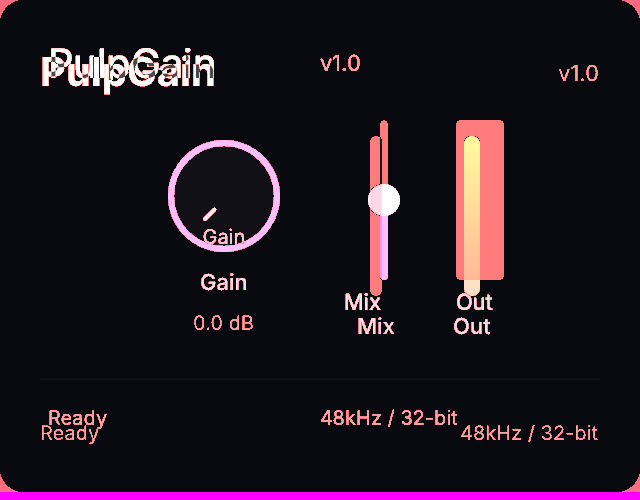
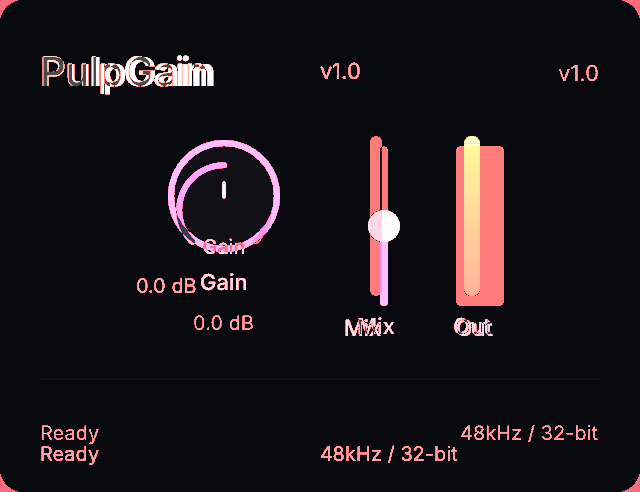
Compute exact layout heights from Pencil data instead of estimating
- Parse top-level Pencil properties (width, height, fill, cornerRadius,
  fontSize, fontWeight, layout, gap, padding, justifyContent, alignItems)
  directly from node JSON — not just from "style" sub-object
- Pencil frames default to horizontal (row) when no layout specified
- Audio widget height computed from actual child shape dimensions +
  label count + gaps — no more kMin* fallback estimates
- Extract widget dimensions from child ellipse/rectangle shapes
- 91→93% similarity against real Pencil export

diff --git a/core/view/src/design_import.cpp b/core/view/src/design_import.cpp
@@ -207,11 +207,124 @@ static IRNode parse_ir_node(const choc::value::ValueView& obj) {
     if (obj.hasObjectMember("default"))
         node.audio_default = get_float(obj, "default", 0.5f);
 
+    // Top-level properties (Pencil/Figma format puts these at node level, not in "style")
+    // Override style values if they weren't set from the "style" sub-object
+    if (!node.style.width && obj.hasObjectMember("width")) {
+        auto w_str = get_string(obj, "width", "");
+        if (w_str != "fill_container" && w_str != "fit_content") {
+            float w = get_float(obj, "width", 0);
+            if (w > 0) node.style.width = w;
+        }
+    }
+    if (!node.style.height && obj.hasObjectMember("height")) {
+        float h = get_float(obj, "height", 0);
+        if (h > 0) node.style.height = h;
+    }
+    // Top-level fill → backgroundColor
+    if (!node.style.background_color && obj.hasObjectMember("fill")) {
+        auto fill_val = obj["fill"];
+        if (fill_val.isString()) {
+            auto fill_str = std::string(fill_val.toString());
+            if (!fill_str.empty() && fill_str[0] == '#')
+                node.style.background_color = fill_str;
+        }
+    }
+    // Top-level cornerRadius
+    if (!node.style.border_radius && obj.hasObjectMember("cornerRadius")) {
+        node.style.border_radius = get_float(obj, "cornerRadius", 0);
+    }
+    // Top-level fontSize, fontWeight, fontFamily for text nodes
+    if (node.type == "text" || node.type == "label") {
+        if (!node.style.font_size && obj.hasObjectMember("fontSize"))
+            node.style.font_size = get_float(obj, "fontSize", 14);
+        if (!node.style.font_weight && obj.hasObjectMember("fontWeight")) {
+            auto fw = get_string(obj, "fontWeight", "");
+            if (!fw.empty()) {
+                try { node.style.font_weight = std::stoi(fw); }
+                catch (...) { if (fw == "bold") node.style.font_weight = 700; }
+            }
+        }
+        if (!node.style.color && obj.hasObjectMember("fill")) {
+            auto fill_val = obj["fill"];
+            if (fill_val.isString()) node.style.color = std::string(fill_val.toString());
+        }
+        if (!node.style.font_family && obj.hasObjectMember("fontFamily"))
+            node.style.font_family = get_string(obj, "fontFamily", "");
+        // Top-level content → text_content
+        if (node.text_content.empty() && obj.hasObjectMember("content"))
+            node.text_content = get_string(obj, "content", "");
+    }
+    // Top-level layout properties (Pencil uses "layout": "vertical"/"horizontal")
+    // Pencil frames default to horizontal when no layout is specified
+    if (obj.hasObjectMember("layout")) {
+        auto layout_val = obj["layout"];
+        if (layout_val.isString()) {
+            auto dir = std::string(layout_val.toString());
+            if (dir == "horizontal") node.layout.direction = LayoutDirection::row;
+            else if (dir == "vertical") node.layout.direction = LayoutDirection::column;
+            else if (dir == "none") {} // absolute positioning, keep default
+        } else if (layout_val.isObject()) {
+            // IR format: layout is an object with "direction" key
+            // Already parsed above via parse_ir_layout
+        }
+    } else if (node.type == "frame" &&
+               obj.hasObjectMember("children") && obj["children"].isArray() && obj["children"].size() > 0) {
+        // Pencil frames default to horizontal (row) when layout is not specified
+        node.layout.direction = LayoutDirection::row;
+    }
+    if (obj.hasObjectMember("gap"))
+        node.layout.gap = get_float(obj, "gap", 0);
+    if (obj.hasObjectMember("justifyContent")) {
+        auto j = get_string(obj, "justifyContent", "");
+        if (j == "center") node.layout.justify = LayoutAlign::center;
+        else if (j == "space_between" || j == "space-between") node.layout.justify = LayoutAlign::space_between;
+    }
+    if (obj.hasObjectMember("alignItems")) {
+        auto a = get_string(obj, "alignItems", "");
+        if (a == "center") node.layout.align = LayoutAlign::center;
+        else if (a == "end") node.layout.align = LayoutAlign::flex_end;
+    }
+    // Top-level padding (Pencil uses array: [top, right] or [top, right, bottom, left])
+    if (obj.hasObjectMember("padding")) {
+        auto pad = obj["padding"];
+        if (pad.isArray()) {
+            if (pad.size() == 2) {
+                float tb = static_cast<float>(pad[0].getWithDefault<double>(0));
+                float lr = static_cast<float>(pad[1].getWithDefault<double>(0));
+                node.layout.padding_top = node.layout.padding_bottom = tb;
+                node.layout.padding_left = node.layout.padding_right = lr;
+            } else if (pad.size() == 4) {
+                node.layout.padding_top = static_cast<float>(pad[0].getWithDefault<double>(0));
+                node.layout.padding_right = static_cast<float>(pad[1].getWithDefault<double>(0));
+                node.layout.padding_bottom = static_cast<float>(pad[2].getWithDefault<double>(0));
+                node.layout.padding_left = static_cast<float>(pad[3].getWithDefault<double>(0));
+            }
+        } else {
+            float p = get_float(obj, "padding", 0);
+            node.layout.padding_top = node.layout.padding_right =
+                node.layout.padding_bottom = node.layout.padding_left = p;
+        }
+    }
+
     // Children
     if (obj.hasObjectMember("children") && obj["children"].isArray()) {
         auto children = obj["children"];
         for (uint32_t i = 0; i < children.size(); ++i)
             node.children.push_back(parse_ir_node(children[static_cast<int>(i)]));
+    }
+
+    // For audio widgets: extract dimensions from child shapes
+    if (node.audio_widget != AudioWidgetType::none && !node.children.empty()) {
+        for (auto& child : node.children) {
+            // Child ellipse/rectangle = the visual shape of the widget
+            if (child.type == "ellipse" || child.type == "rectangle") {
+                if (child.style.width && !node.style.width)
+                    node.style.width = child.style.width;
+                if (child.style.height && !node.style.height)
+                    node.style.height = child.style.height;
+                break;  // Use first shape child
+            }
+        }
     }
 
     return node;
@@ -579,44 +692,67 @@ static constexpr float kMinFaderHeight = 80.0f;
 static constexpr float kMinMeterWidth = 20.0f;
 static constexpr float kMinMeterHeight = 80.0f;
 
-static float estimate_child_height(const IRNode& child);
+// Compute the actual rendered height of a node from its Pencil/IR data.
+// Uses exact child dimensions — no guessing.
+static float compute_node_height(const IRNode& node);
 
-static float estimate_container_height(const IRNode& node) {
-    // Estimate height needed for a container based on its children and direction
+static float compute_container_height(const IRNode& node) {
     bool is_row = (node.layout.direction == LayoutDirection::row);
     float gap = node.layout.gap;
+    float pad = node.layout.padding_top + node.layout.padding_bottom;
 
     if (is_row) {
-        // Row: height = max child height
         float max_h = 0;
         for (auto& child : node.children)
-            max_h = std::max(max_h, estimate_child_height(child));
-        max_h += node.layout.padding_top + node.layout.padding_bottom;
-        return std::max(max_h, kMinRowHeight);
+            max_h = std::max(max_h, compute_node_height(child));
+        return std::max(max_h + pad, kMinRowHeight);
     } else {
-        // Column: height = sum of child heights + gaps
         float h = 0;
         for (size_t i = 0; i < node.children.size(); ++i) {
             if (i > 0) h += gap;
-            h += estimate_child_height(node.children[i]);
+            h += compute_node_height(node.children[i]);
         }
-        h += node.layout.padding_top + node.layout.padding_bottom;
-        return std::max(h, kMinRowHeight);
+        return std::max(h + pad, kMinRowHeight);
     }
 }
 
-static float estimate_child_height(const IRNode& child) {
-    if (child.style.height) return *child.style.height;
-    if (child.audio_widget == AudioWidgetType::knob)
-        return child.style.height.value_or(kMinKnobSize) + 20;
-    if (child.audio_widget == AudioWidgetType::fader)
-        return child.style.height.value_or(kMinFaderHeight) + 20;
-    if (child.audio_widget == AudioWidgetType::meter)
-        return child.style.height.value_or(kMinMeterHeight) + 20;
-    if (child.type == "text" || child.type == "label")
-        return kMinLabelHeight;
-    if (!child.children.empty())
-        return estimate_container_height(child);
+static float compute_node_height(const IRNode& node) {
+    // Audio widget frames: the generated wrapper column contains the widget +
+    // separate labels. Compute from children's actual dimensions.
+    if (node.audio_widget != AudioWidgetType::none) {
+        float widget_h = 0;
+        float labels_h = 0;
+        float gap = node.layout.gap > 0 ? node.layout.gap : 8;
+        int n_items = 0;
+
+        for (auto& c : node.children) {
+            if (c.type == "ellipse" || c.type == "rectangle") {
+                widget_h = std::max(widget_h, c.style.height.value_or(kMinFaderHeight));
+                n_items++;
+            } else if (c.type == "text" || c.type == "label") {
+                labels_h += kMinLabelHeight;
+                n_items++;
+            }
+        }
+        // Minimums if no children found
+        if (widget_h == 0) widget_h = (node.audio_widget == AudioWidgetType::knob) ? kMinKnobSize : kMinFaderHeight;
+        if (n_items == 0) n_items = 1;
+
+        return widget_h + labels_h + gap * static_cast<float>(n_items);
+    }
+
+    // Non-audio node with explicit height
+    if (node.style.height) return *node.style.height;
+
+    // Text/label: font-dependent height
+    if (node.type == "text" || node.type == "label")
+        return node.style.font_size.value_or(14.0f) + 4.0f;
+
+    // Container with children: compute recursively
+    if (!node.children.empty())
+        return compute_container_height(node);
+
+    // Leaf node without dimensions
     return kMinRowHeight;
 }
 
@@ -774,8 +910,8 @@ static void generate_native_node(std::ostringstream& ss, const IRNode& node,
         } else if (node.layout.height_mode == SizingMode::fill) {
             ss << ind << "setFlex('" << id << "', 'flex_grow', 1);\n";
         } else {
-            // Estimate height from children
-            float est = estimate_container_height(node);
+            // Compute height from children's actual dimensions
+            float est = compute_container_height(node);
             ss << ind << "setFlex('" << id << "', 'height', " << est << ");\n";
         }
 